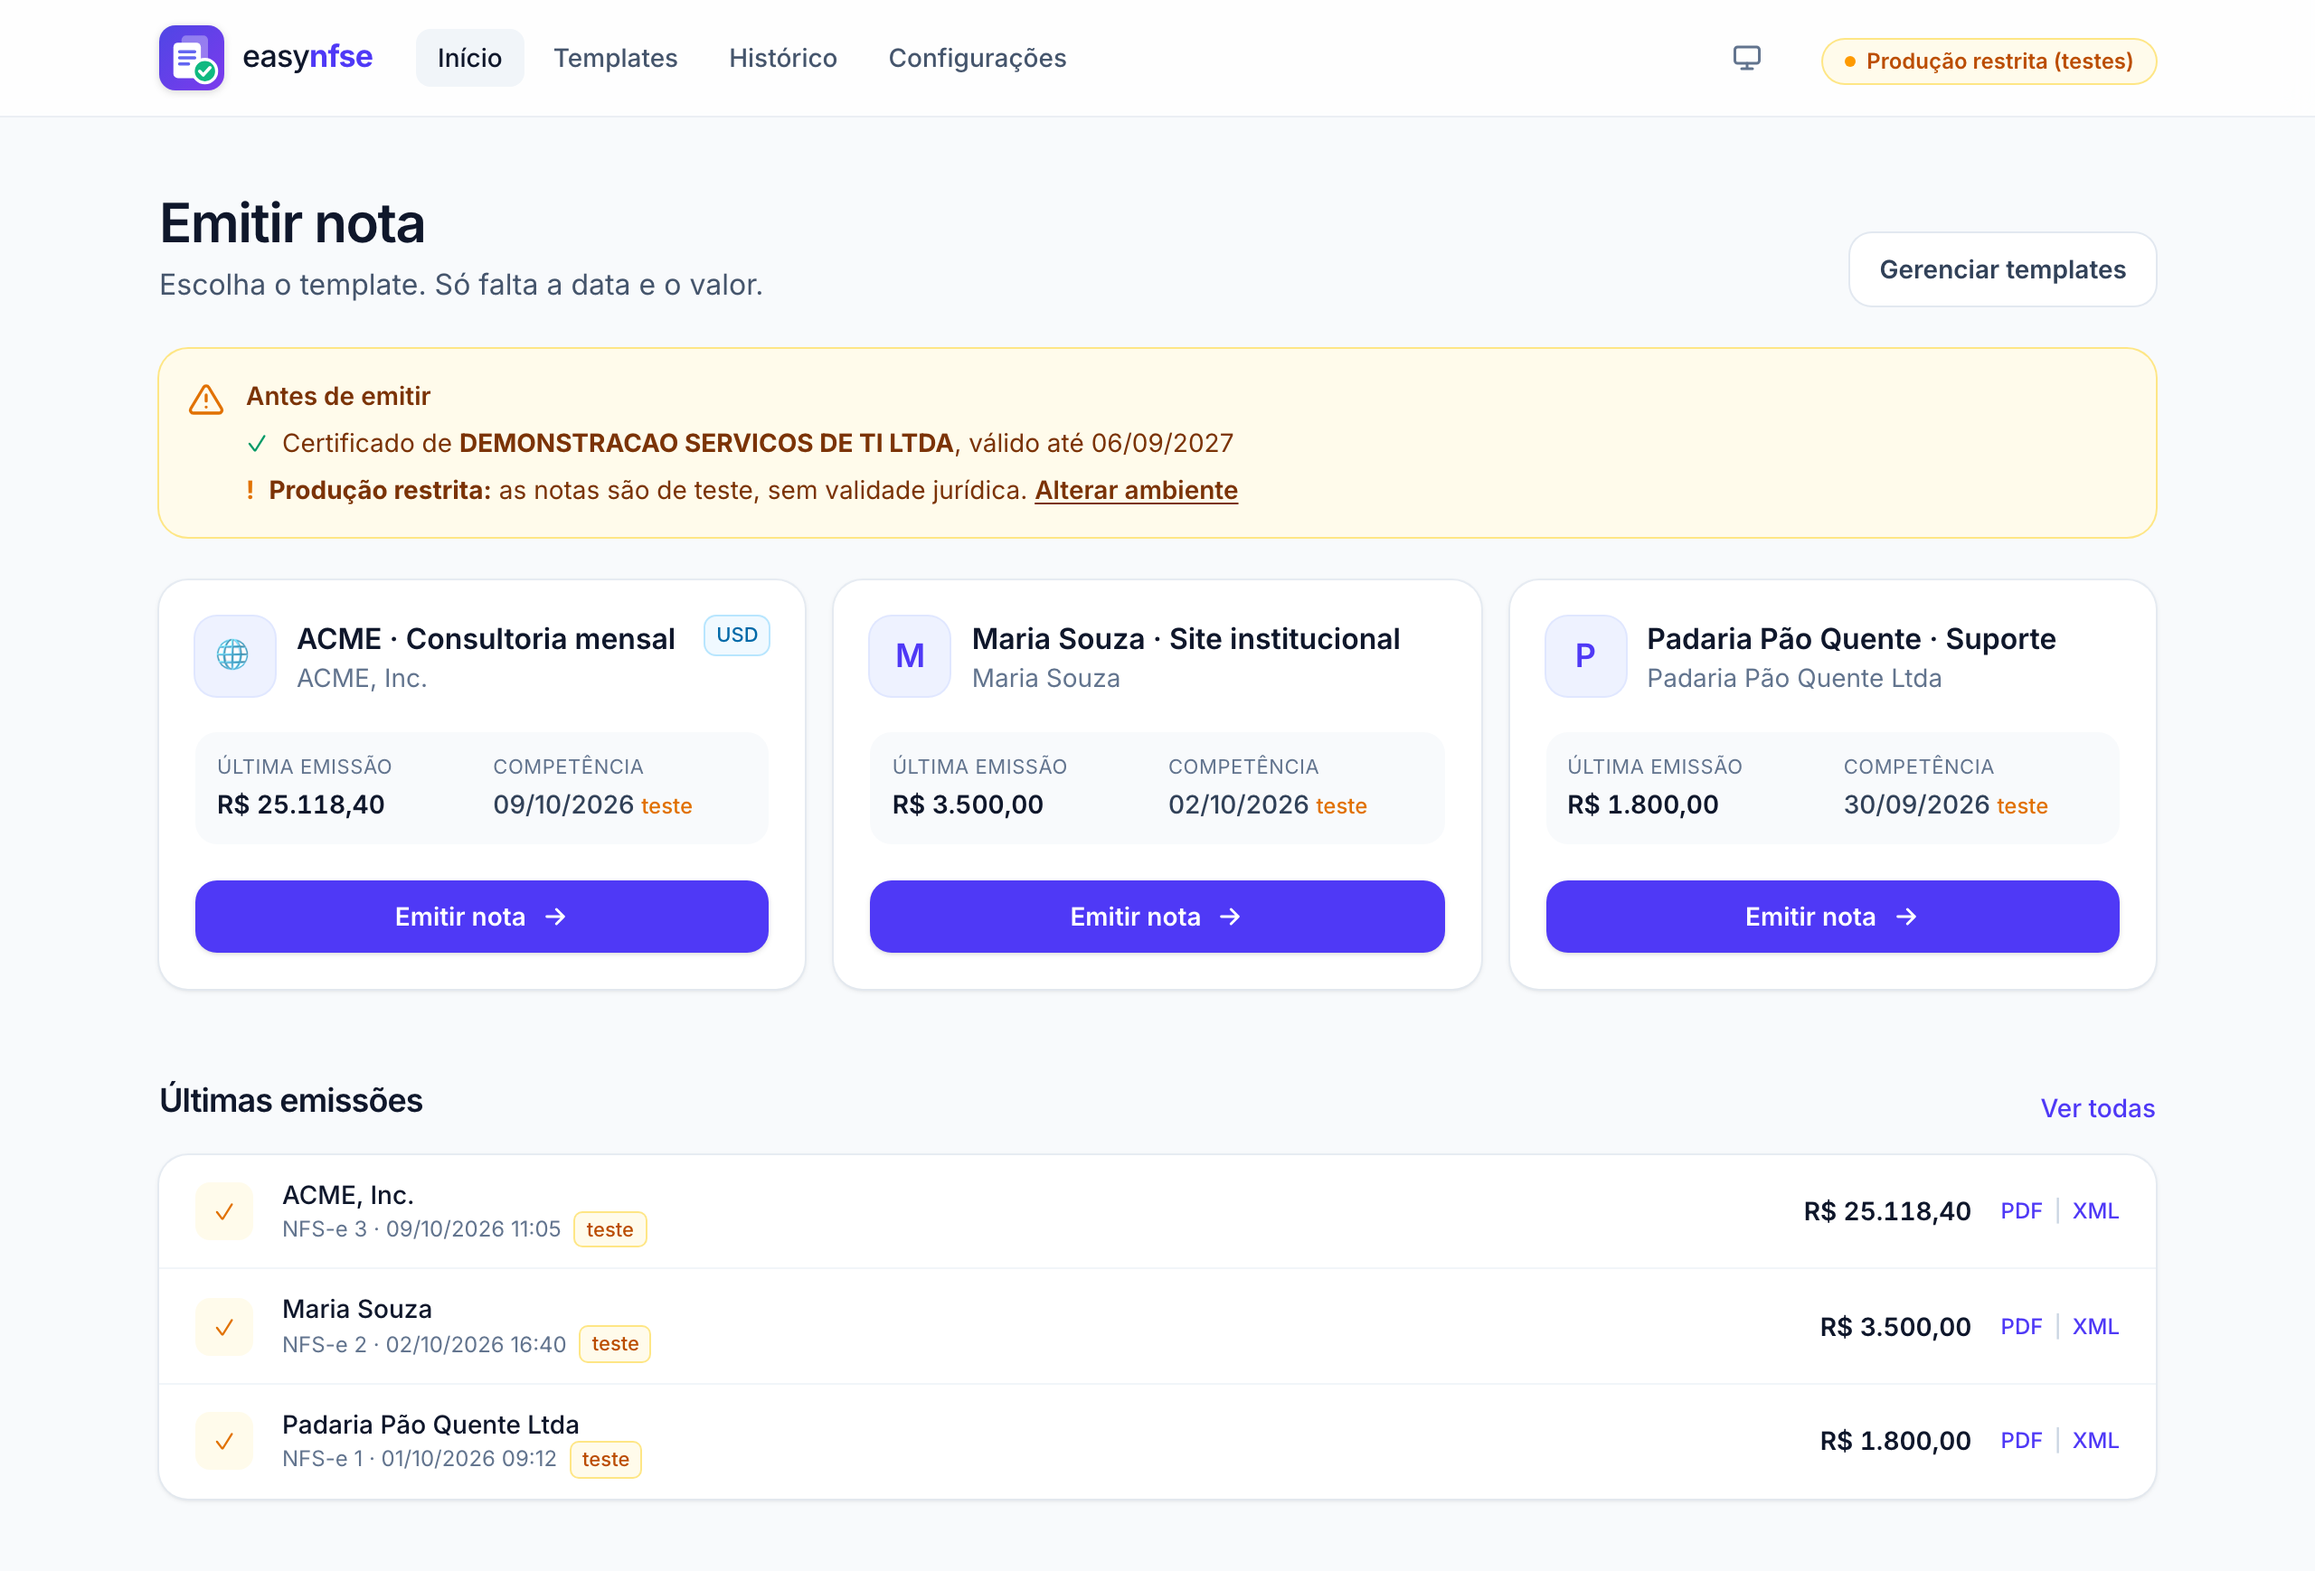
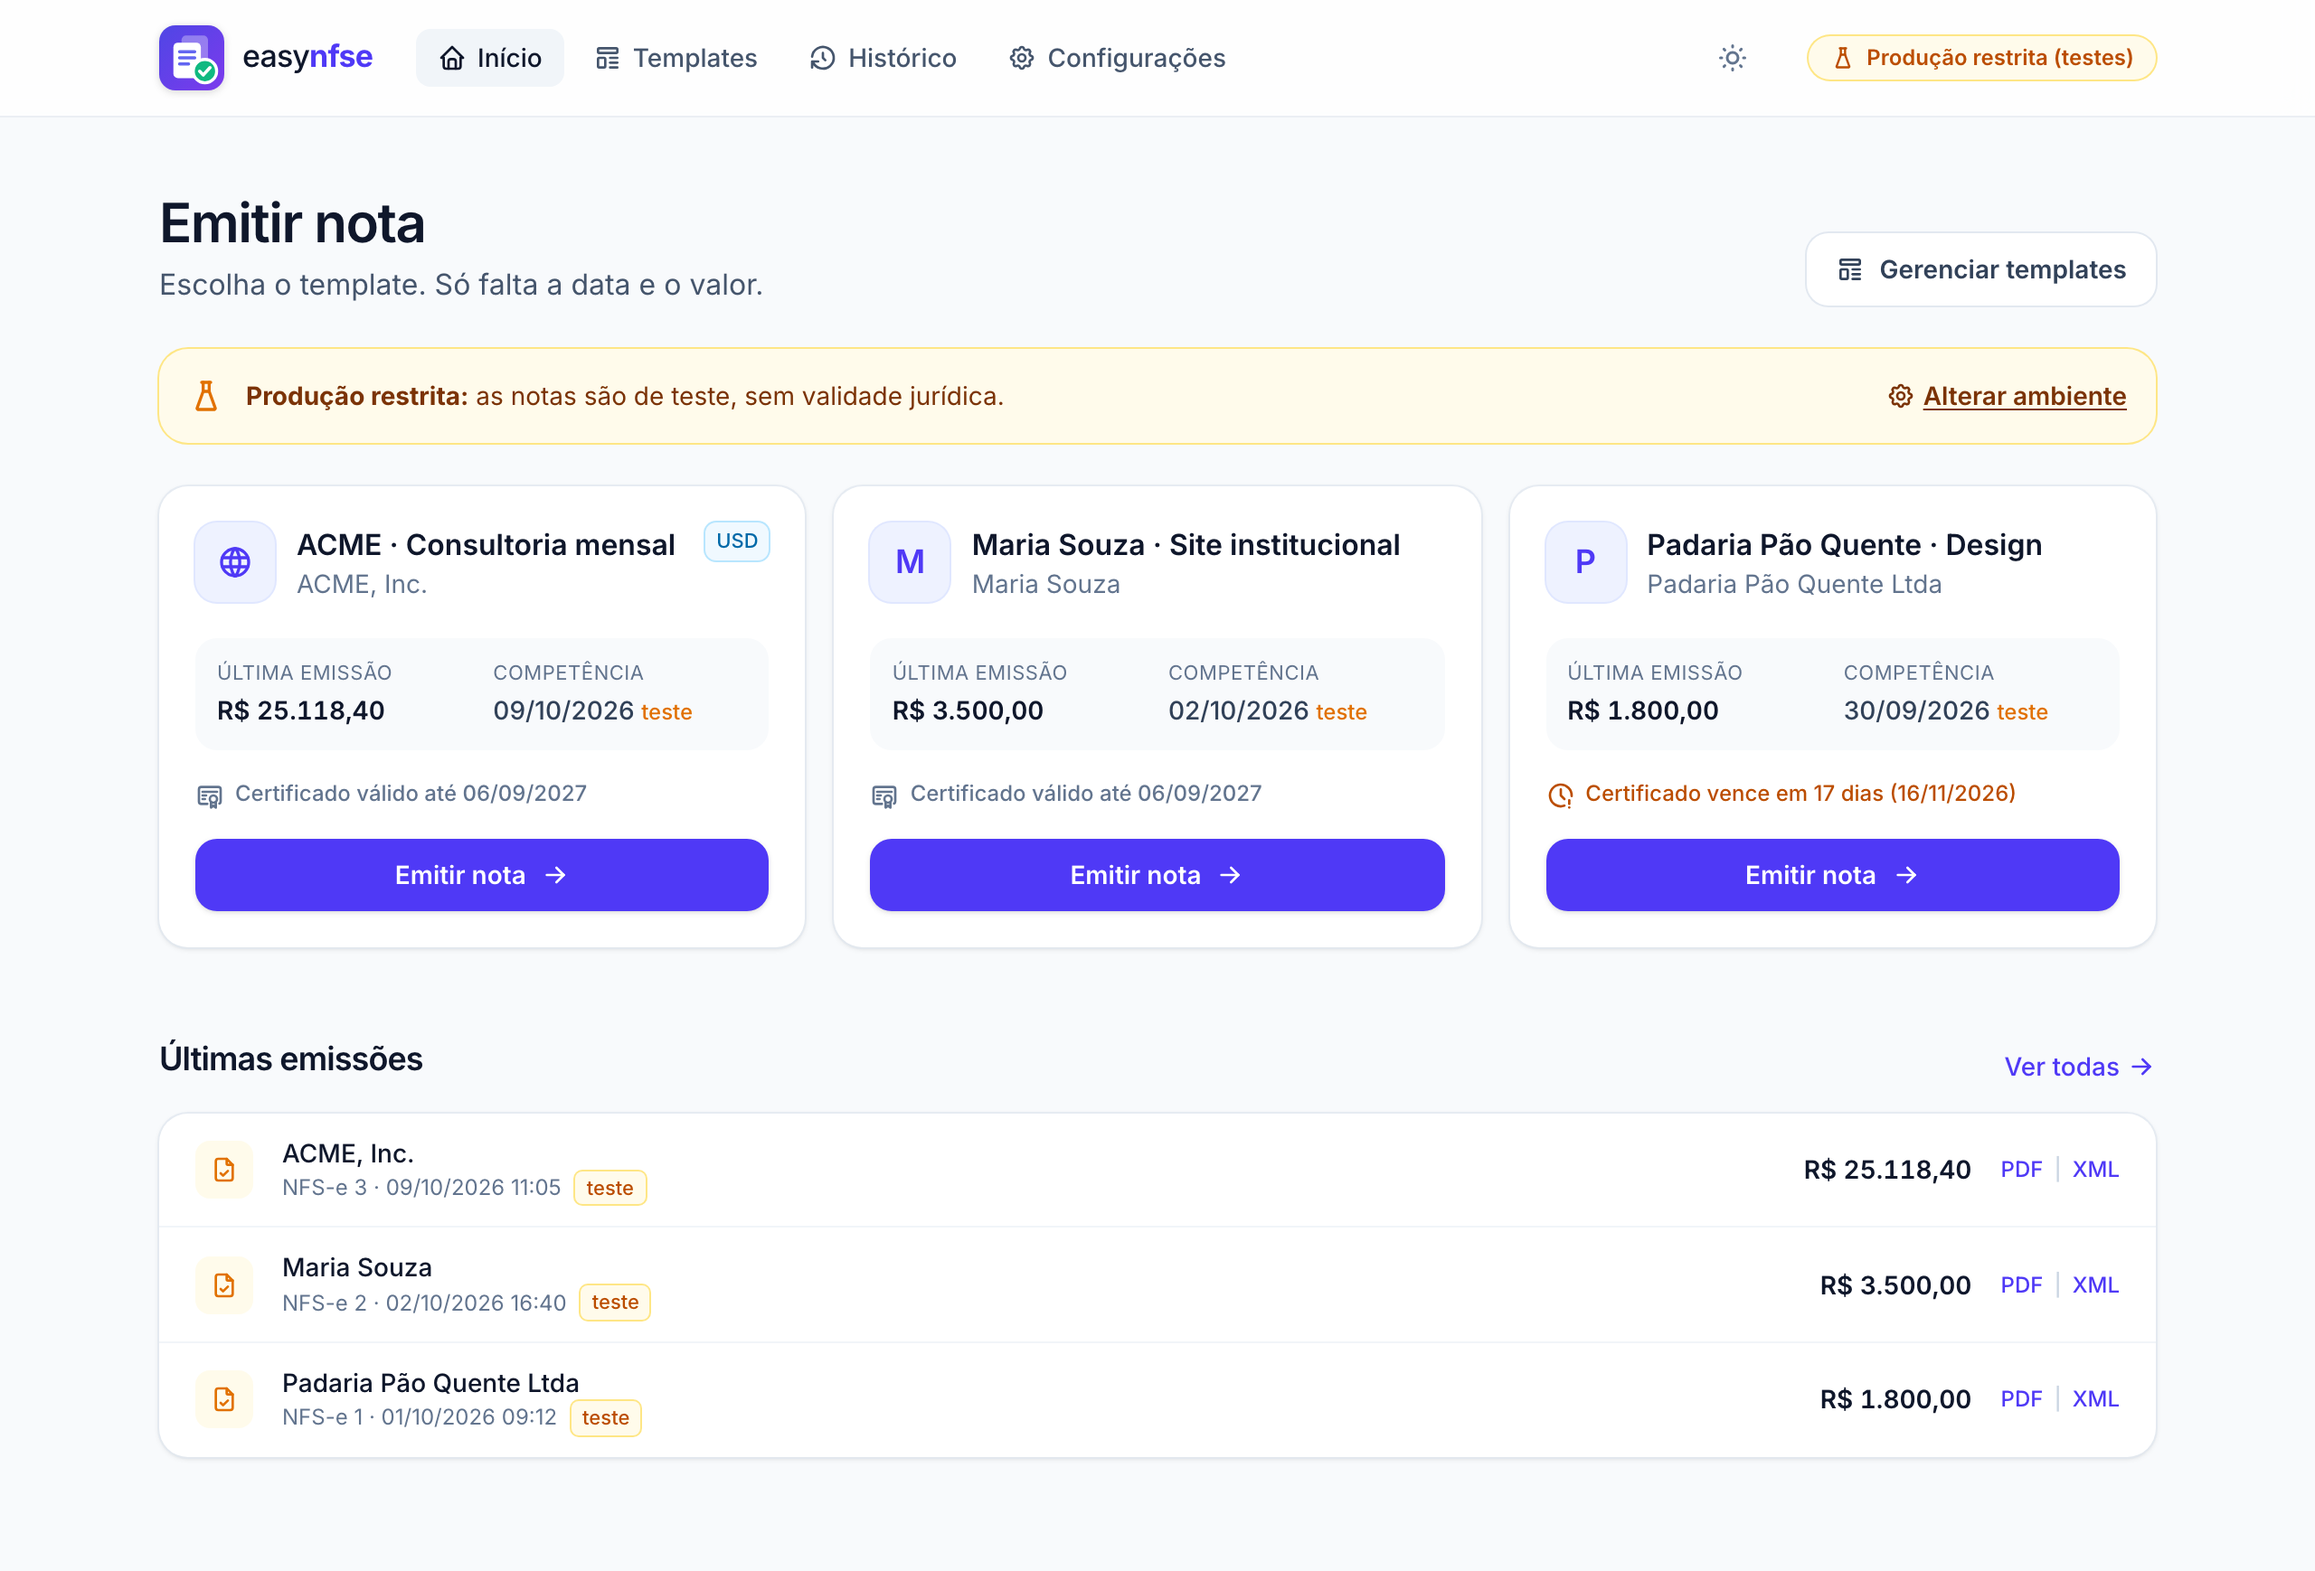
docs: atualizar a captura da tela inicial e citar vários certificados
A captura mostra templates de dois prestadores, cada um com o estado do
seu certificado (um deles perto de vencer). Os dados são fictícios.

diff --git a/README.md b/README.md
@@ -12,15 +12,18 @@ a partir de uma nota já emitida.
 <picture>
   <source media="(prefers-color-scheme: dark)" srcset="docs/screenshots/inicio-escuro.png">
   <source media="(prefers-color-scheme: light)" srcset="docs/screenshots/inicio-claro.png">
-  <img src="docs/screenshots/inicio-claro.png" alt="Tela inicial do easy-nfse com templates prontos para emissão e as últimas notas emitidas (dados fictícios)">
+  <img src="docs/screenshots/inicio-claro.png" alt="Tela inicial do easy-nfse com templates de dois prestadores, cada um com o estado do seu certificado digital, e as últimas notas emitidas (dados fictícios)">
 </picture>
 
-<sub>Tela inicial em uma versão de teste, com dados fictícios. A imagem acompanha o tema (claro ou escuro) do GitHub.</sub>
+<sub>Tela inicial em uma versão de teste, com dados fictícios: cada template mostra o certificado do seu prestador e avisa
+quando ele está perto de vencer. A imagem acompanha o tema (claro ou escuro) do GitHub.</sub>
 
 ## Funcionalidades
 
 - Emissão direta pela **API oficial da Sefin Nacional**, com assinatura digital e autenticação feitas com o seu
   certificado A1, sem intermediários.
+- **Vários certificados A1**, um por prestador: cada template usa automaticamente o certificado do CNPJ/CPF do seu
+  prestador (ou um escolhido), com aviso de validade e numeração da DPS por CNPJ. Para renovar, basta adicionar o novo.
 - Importação de notas anteriores em PDF ou XML (ou pela chave de acesso, se houver certificado configurado).
 - **Tomador do exterior e exportação de serviço**, com conversão do valor em moeda estrangeira pela PTAX.
 - Geração do **PDF da nota (DANFSe v2.0)** e histórico das emissões, com download do PDF e do XML.
